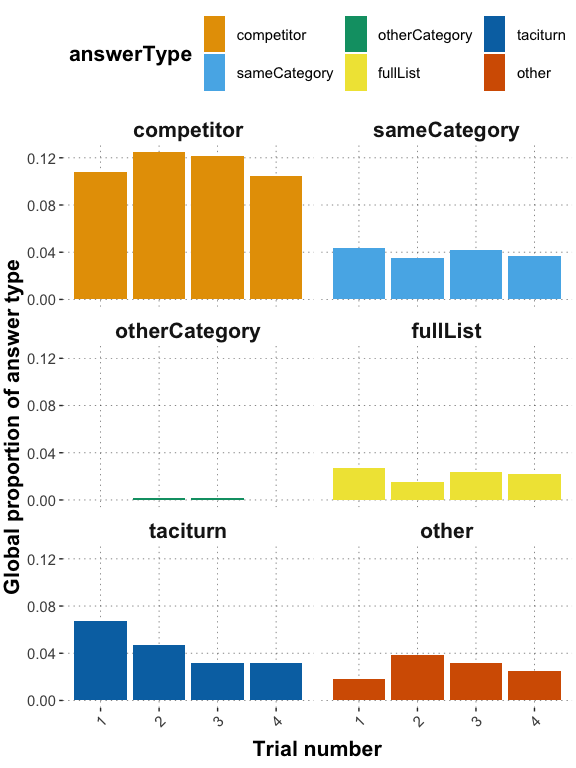
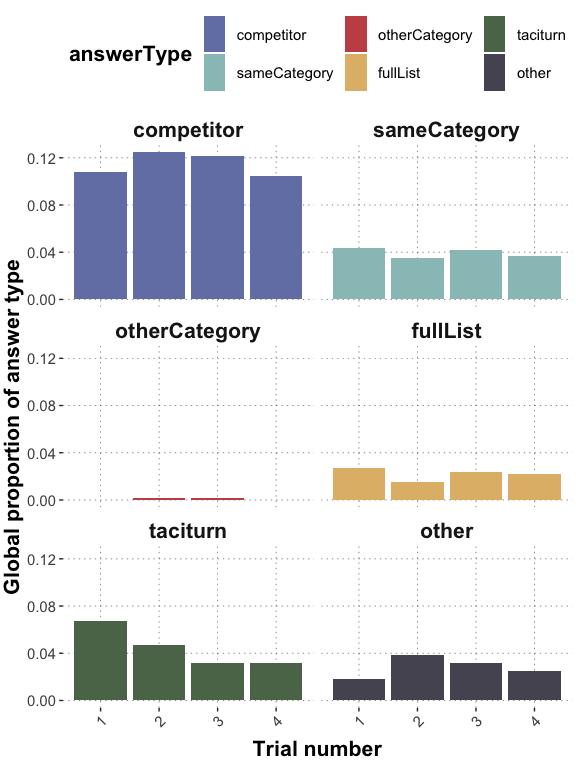
update theme, add analysis

diff --git a/data+analysis/05_main_free_typing_cogsci_analysis.md b/data+analysis/05_main_free_typing_cogsci_analysis.md
@@ -305,6 +305,7 @@ df_trialNum %>%
   ggplot(aes(x = trialNr_main, fill = answerType, y = answerType_proportion)) +
   geom_col() +
   facet_wrap(answerType ~ ., ncol = 2) + 
+  theme_csp() +
   theme(axis.text.x = element_text(angle = 45, hjust = 1)) +
   ylab("Global proportion of answer type") +
   xlab("Trial number")
@@ -413,17 +414,17 @@ summary(multinom_brm)
     ## 
     ## Population-Level Effects: 
     ##                           Estimate Est.Error l-95% CI u-95% CI Rhat Bulk_ESS
-    ## musameCategory_Intercept     -1.06      0.12    -1.29    -0.83 1.00     5726
-    ## muotherCategory_Intercept    -4.93      0.72    -6.57    -3.73 1.00     6620
-    ## mufullList_Intercept         -1.65      0.15    -1.95    -1.36 1.00     6670
-    ## mutaciturn_Intercept         -0.94      0.11    -1.17    -0.72 1.00     6329
-    ## muother_Intercept            -1.38      0.13    -1.65    -1.13 1.00     6690
+    ## musameCategory_Intercept     -1.06      0.12    -1.29    -0.83 1.00     6007
+    ## muotherCategory_Intercept    -4.93      0.73    -6.60    -3.73 1.00     5970
+    ## mufullList_Intercept         -1.65      0.15    -1.96    -1.36 1.00     5922
+    ## mutaciturn_Intercept         -0.94      0.11    -1.17    -0.72 1.00     5341
+    ## muother_Intercept            -1.39      0.13    -1.65    -1.13 1.00     5474
     ##                           Tail_ESS
-    ## musameCategory_Intercept      4259
-    ## muotherCategory_Intercept     3533
-    ## mufullList_Intercept          4570
-    ## mutaciturn_Intercept          4712
-    ## muother_Intercept             4810
+    ## musameCategory_Intercept      4846
+    ## muotherCategory_Intercept     3738
+    ## mufullList_Intercept          4447
+    ## mutaciturn_Intercept          4533
+    ## muother_Intercept             4169
     ## 
     ## Draws were sampled using sampling(NUTS). For each parameter, Bulk_ESS
     ## and Tail_ESS are effective sample size measures, and Rhat is the potential
@@ -457,5 +458,134 @@ multinom_posteriors_summary
     ## # A tibble: 2 × 6
     ##   key                           `|95%`  mean `95%|` prob_gt_0 prob_lt_0
     ##   <chr>                          <dbl> <dbl>  <dbl>     <dbl>     <dbl>
-    ## 1 sameCategory_vs_fullList       0.261 0.593  0.926      100.    0.0333
-    ## 2 sameCategory_vs_otherCategory  2.67  3.87   5.52       100     0
+    ## 1 sameCategory_vs_fullList       0.256 0.591  0.939       100         0
+    ## 2 sameCategory_vs_otherCategory  2.61  3.87   5.55        100         0
+
+Additionally, we fit a model regressing the response type against an
+intercept, treating all response types as one vs taciturn responses, in
+order to check that generally, participants are less likely to produce
+taciturn responses than anything else. The same analysis is conducted
+for full list vs everything else.
+
+``` r
+df_clean_main_binary <- df_clean_main %>% mutate(
+  answerType_taciturn = ifelse(answerType == "taciturn", "taciturn", "all"),
+  answerType_taciturn = factor(answerType_taciturn),
+  answerType_fullList = ifelse(answerType == "fullList", "fullList", "all"),
+  answerType_fullList = factor(answerType_fullList)
+)
+contrasts(df_clean_main_binary$answerType_taciturn)
+```
+
+    ##          all
+    ## taciturn   0
+    ## all        1
+
+``` r
+contrasts(df_clean_main_binary$answerType_fullList)
+```
+
+    ##          fullList
+    ## all             0
+    ## fullList        1
+
+``` r
+# multinomial regression with intercept only
+taciturn_brm <- brm(answerType_taciturn ~ 1, 
+    data = df_clean_main_binary, 
+    family = "categorical",
+    iter = 3000
+    )
+```
+
+    ## Running /Library/Frameworks/R.framework/Resources/bin/R CMD SHLIB foo.c
+    ## clang -arch arm64 -I"/Library/Frameworks/R.framework/Resources/include" -DNDEBUG   -I"/Library/Frameworks/R.framework/Versions/4.2-arm64/Resources/library/Rcpp/include/"  -I"/Library/Frameworks/R.framework/Versions/4.2-arm64/Resources/library/RcppEigen/include/"  -I"/Library/Frameworks/R.framework/Versions/4.2-arm64/Resources/library/RcppEigen/include/unsupported"  -I"/Library/Frameworks/R.framework/Versions/4.2-arm64/Resources/library/BH/include" -I"/Library/Frameworks/R.framework/Versions/4.2-arm64/Resources/library/StanHeaders/include/src/"  -I"/Library/Frameworks/R.framework/Versions/4.2-arm64/Resources/library/StanHeaders/include/"  -I"/Library/Frameworks/R.framework/Versions/4.2-arm64/Resources/library/RcppParallel/include/"  -I"/Library/Frameworks/R.framework/Versions/4.2-arm64/Resources/library/rstan/include" -DEIGEN_NO_DEBUG  -DBOOST_DISABLE_ASSERTS  -DBOOST_PENDING_INTEGER_LOG2_HPP  -DSTAN_THREADS  -DBOOST_NO_AUTO_PTR  -include '/Library/Frameworks/R.framework/Versions/4.2-arm64/Resources/library/StanHeaders/include/stan/math/prim/mat/fun/Eigen.hpp'  -D_REENTRANT -DRCPP_PARALLEL_USE_TBB=1   -I/opt/R/arm64/include   -fPIC  -falign-functions=64 -Wall -g -O2  -c foo.c -o foo.o
+    ## In file included from <built-in>:1:
+    ## In file included from /Library/Frameworks/R.framework/Versions/4.2-arm64/Resources/library/StanHeaders/include/stan/math/prim/mat/fun/Eigen.hpp:13:
+    ## In file included from /Library/Frameworks/R.framework/Versions/4.2-arm64/Resources/library/RcppEigen/include/Eigen/Dense:1:
+    ## In file included from /Library/Frameworks/R.framework/Versions/4.2-arm64/Resources/library/RcppEigen/include/Eigen/Core:88:
+    ## /Library/Frameworks/R.framework/Versions/4.2-arm64/Resources/library/RcppEigen/include/Eigen/src/Core/util/Macros.h:628:1: error: unknown type name 'namespace'
+    ## namespace Eigen {
+    ## ^
+    ## /Library/Frameworks/R.framework/Versions/4.2-arm64/Resources/library/RcppEigen/include/Eigen/src/Core/util/Macros.h:628:16: error: expected ';' after top level declarator
+    ## namespace Eigen {
+    ##                ^
+    ##                ;
+    ## In file included from <built-in>:1:
+    ## In file included from /Library/Frameworks/R.framework/Versions/4.2-arm64/Resources/library/StanHeaders/include/stan/math/prim/mat/fun/Eigen.hpp:13:
+    ## In file included from /Library/Frameworks/R.framework/Versions/4.2-arm64/Resources/library/RcppEigen/include/Eigen/Dense:1:
+    ## /Library/Frameworks/R.framework/Versions/4.2-arm64/Resources/library/RcppEigen/include/Eigen/Core:96:10: fatal error: 'complex' file not found
+    ## #include <complex>
+    ##          ^~~~~~~~~
+    ## 3 errors generated.
+    ## make: *** [foo.o] Error 1
+
+``` r
+summary(taciturn_brm)
+```
+
+    ##  Family: categorical 
+    ##   Links: muall = logit 
+    ## Formula: answerType_taciturn ~ 1 
+    ##    Data: df_clean_main_binary (Number of observations: 594) 
+    ##   Draws: 4 chains, each with iter = 3000; warmup = 1500; thin = 1;
+    ##          total post-warmup draws = 6000
+    ## 
+    ## Population-Level Effects: 
+    ##                 Estimate Est.Error l-95% CI u-95% CI Rhat Bulk_ESS Tail_ESS
+    ## muall_Intercept     1.53      0.11     1.32     1.74 1.00     2374     2774
+    ## 
+    ## Draws were sampled using sampling(NUTS). For each parameter, Bulk_ESS
+    ## and Tail_ESS are effective sample size measures, and Rhat is the potential
+    ## scale reduction factor on split chains (at convergence, Rhat = 1).
+
+``` r
+fullList_brm <- brm(answerType_fullList ~ 1, 
+    data = df_clean_main_binary, 
+    family = "categorical",
+    iter = 3000
+    )
+```
+
+    ## Running /Library/Frameworks/R.framework/Resources/bin/R CMD SHLIB foo.c
+    ## clang -arch arm64 -I"/Library/Frameworks/R.framework/Resources/include" -DNDEBUG   -I"/Library/Frameworks/R.framework/Versions/4.2-arm64/Resources/library/Rcpp/include/"  -I"/Library/Frameworks/R.framework/Versions/4.2-arm64/Resources/library/RcppEigen/include/"  -I"/Library/Frameworks/R.framework/Versions/4.2-arm64/Resources/library/RcppEigen/include/unsupported"  -I"/Library/Frameworks/R.framework/Versions/4.2-arm64/Resources/library/BH/include" -I"/Library/Frameworks/R.framework/Versions/4.2-arm64/Resources/library/StanHeaders/include/src/"  -I"/Library/Frameworks/R.framework/Versions/4.2-arm64/Resources/library/StanHeaders/include/"  -I"/Library/Frameworks/R.framework/Versions/4.2-arm64/Resources/library/RcppParallel/include/"  -I"/Library/Frameworks/R.framework/Versions/4.2-arm64/Resources/library/rstan/include" -DEIGEN_NO_DEBUG  -DBOOST_DISABLE_ASSERTS  -DBOOST_PENDING_INTEGER_LOG2_HPP  -DSTAN_THREADS  -DBOOST_NO_AUTO_PTR  -include '/Library/Frameworks/R.framework/Versions/4.2-arm64/Resources/library/StanHeaders/include/stan/math/prim/mat/fun/Eigen.hpp'  -D_REENTRANT -DRCPP_PARALLEL_USE_TBB=1   -I/opt/R/arm64/include   -fPIC  -falign-functions=64 -Wall -g -O2  -c foo.c -o foo.o
+    ## In file included from <built-in>:1:
+    ## In file included from /Library/Frameworks/R.framework/Versions/4.2-arm64/Resources/library/StanHeaders/include/stan/math/prim/mat/fun/Eigen.hpp:13:
+    ## In file included from /Library/Frameworks/R.framework/Versions/4.2-arm64/Resources/library/RcppEigen/include/Eigen/Dense:1:
+    ## In file included from /Library/Frameworks/R.framework/Versions/4.2-arm64/Resources/library/RcppEigen/include/Eigen/Core:88:
+    ## /Library/Frameworks/R.framework/Versions/4.2-arm64/Resources/library/RcppEigen/include/Eigen/src/Core/util/Macros.h:628:1: error: unknown type name 'namespace'
+    ## namespace Eigen {
+    ## ^
+    ## /Library/Frameworks/R.framework/Versions/4.2-arm64/Resources/library/RcppEigen/include/Eigen/src/Core/util/Macros.h:628:16: error: expected ';' after top level declarator
+    ## namespace Eigen {
+    ##                ^
+    ##                ;
+    ## In file included from <built-in>:1:
+    ## In file included from /Library/Frameworks/R.framework/Versions/4.2-arm64/Resources/library/StanHeaders/include/stan/math/prim/mat/fun/Eigen.hpp:13:
+    ## In file included from /Library/Frameworks/R.framework/Versions/4.2-arm64/Resources/library/RcppEigen/include/Eigen/Dense:1:
+    ## /Library/Frameworks/R.framework/Versions/4.2-arm64/Resources/library/RcppEigen/include/Eigen/Core:96:10: fatal error: 'complex' file not found
+    ## #include <complex>
+    ##          ^~~~~~~~~
+    ## 3 errors generated.
+    ## make: *** [foo.o] Error 1
+
+``` r
+summary(fullList_brm)
+```
+
+    ##  Family: categorical 
+    ##   Links: mufullList = logit 
+    ## Formula: answerType_fullList ~ 1 
+    ##    Data: df_clean_main_binary (Number of observations: 594) 
+    ##   Draws: 4 chains, each with iter = 3000; warmup = 1500; thin = 1;
+    ##          total post-warmup draws = 6000
+    ## 
+    ## Population-Level Effects: 
+    ##                      Estimate Est.Error l-95% CI u-95% CI Rhat Bulk_ESS
+    ## mufullList_Intercept    -2.35      0.14    -2.63    -2.07 1.00     2326
+    ##                      Tail_ESS
+    ## mufullList_Intercept     3313
+    ## 
+    ## Draws were sampled using sampling(NUTS). For each parameter, Bulk_ESS
+    ## and Tail_ESS are effective sample size measures, and Rhat is the potential
+    ## scale reduction factor on split chains (at convergence, Rhat = 1).
